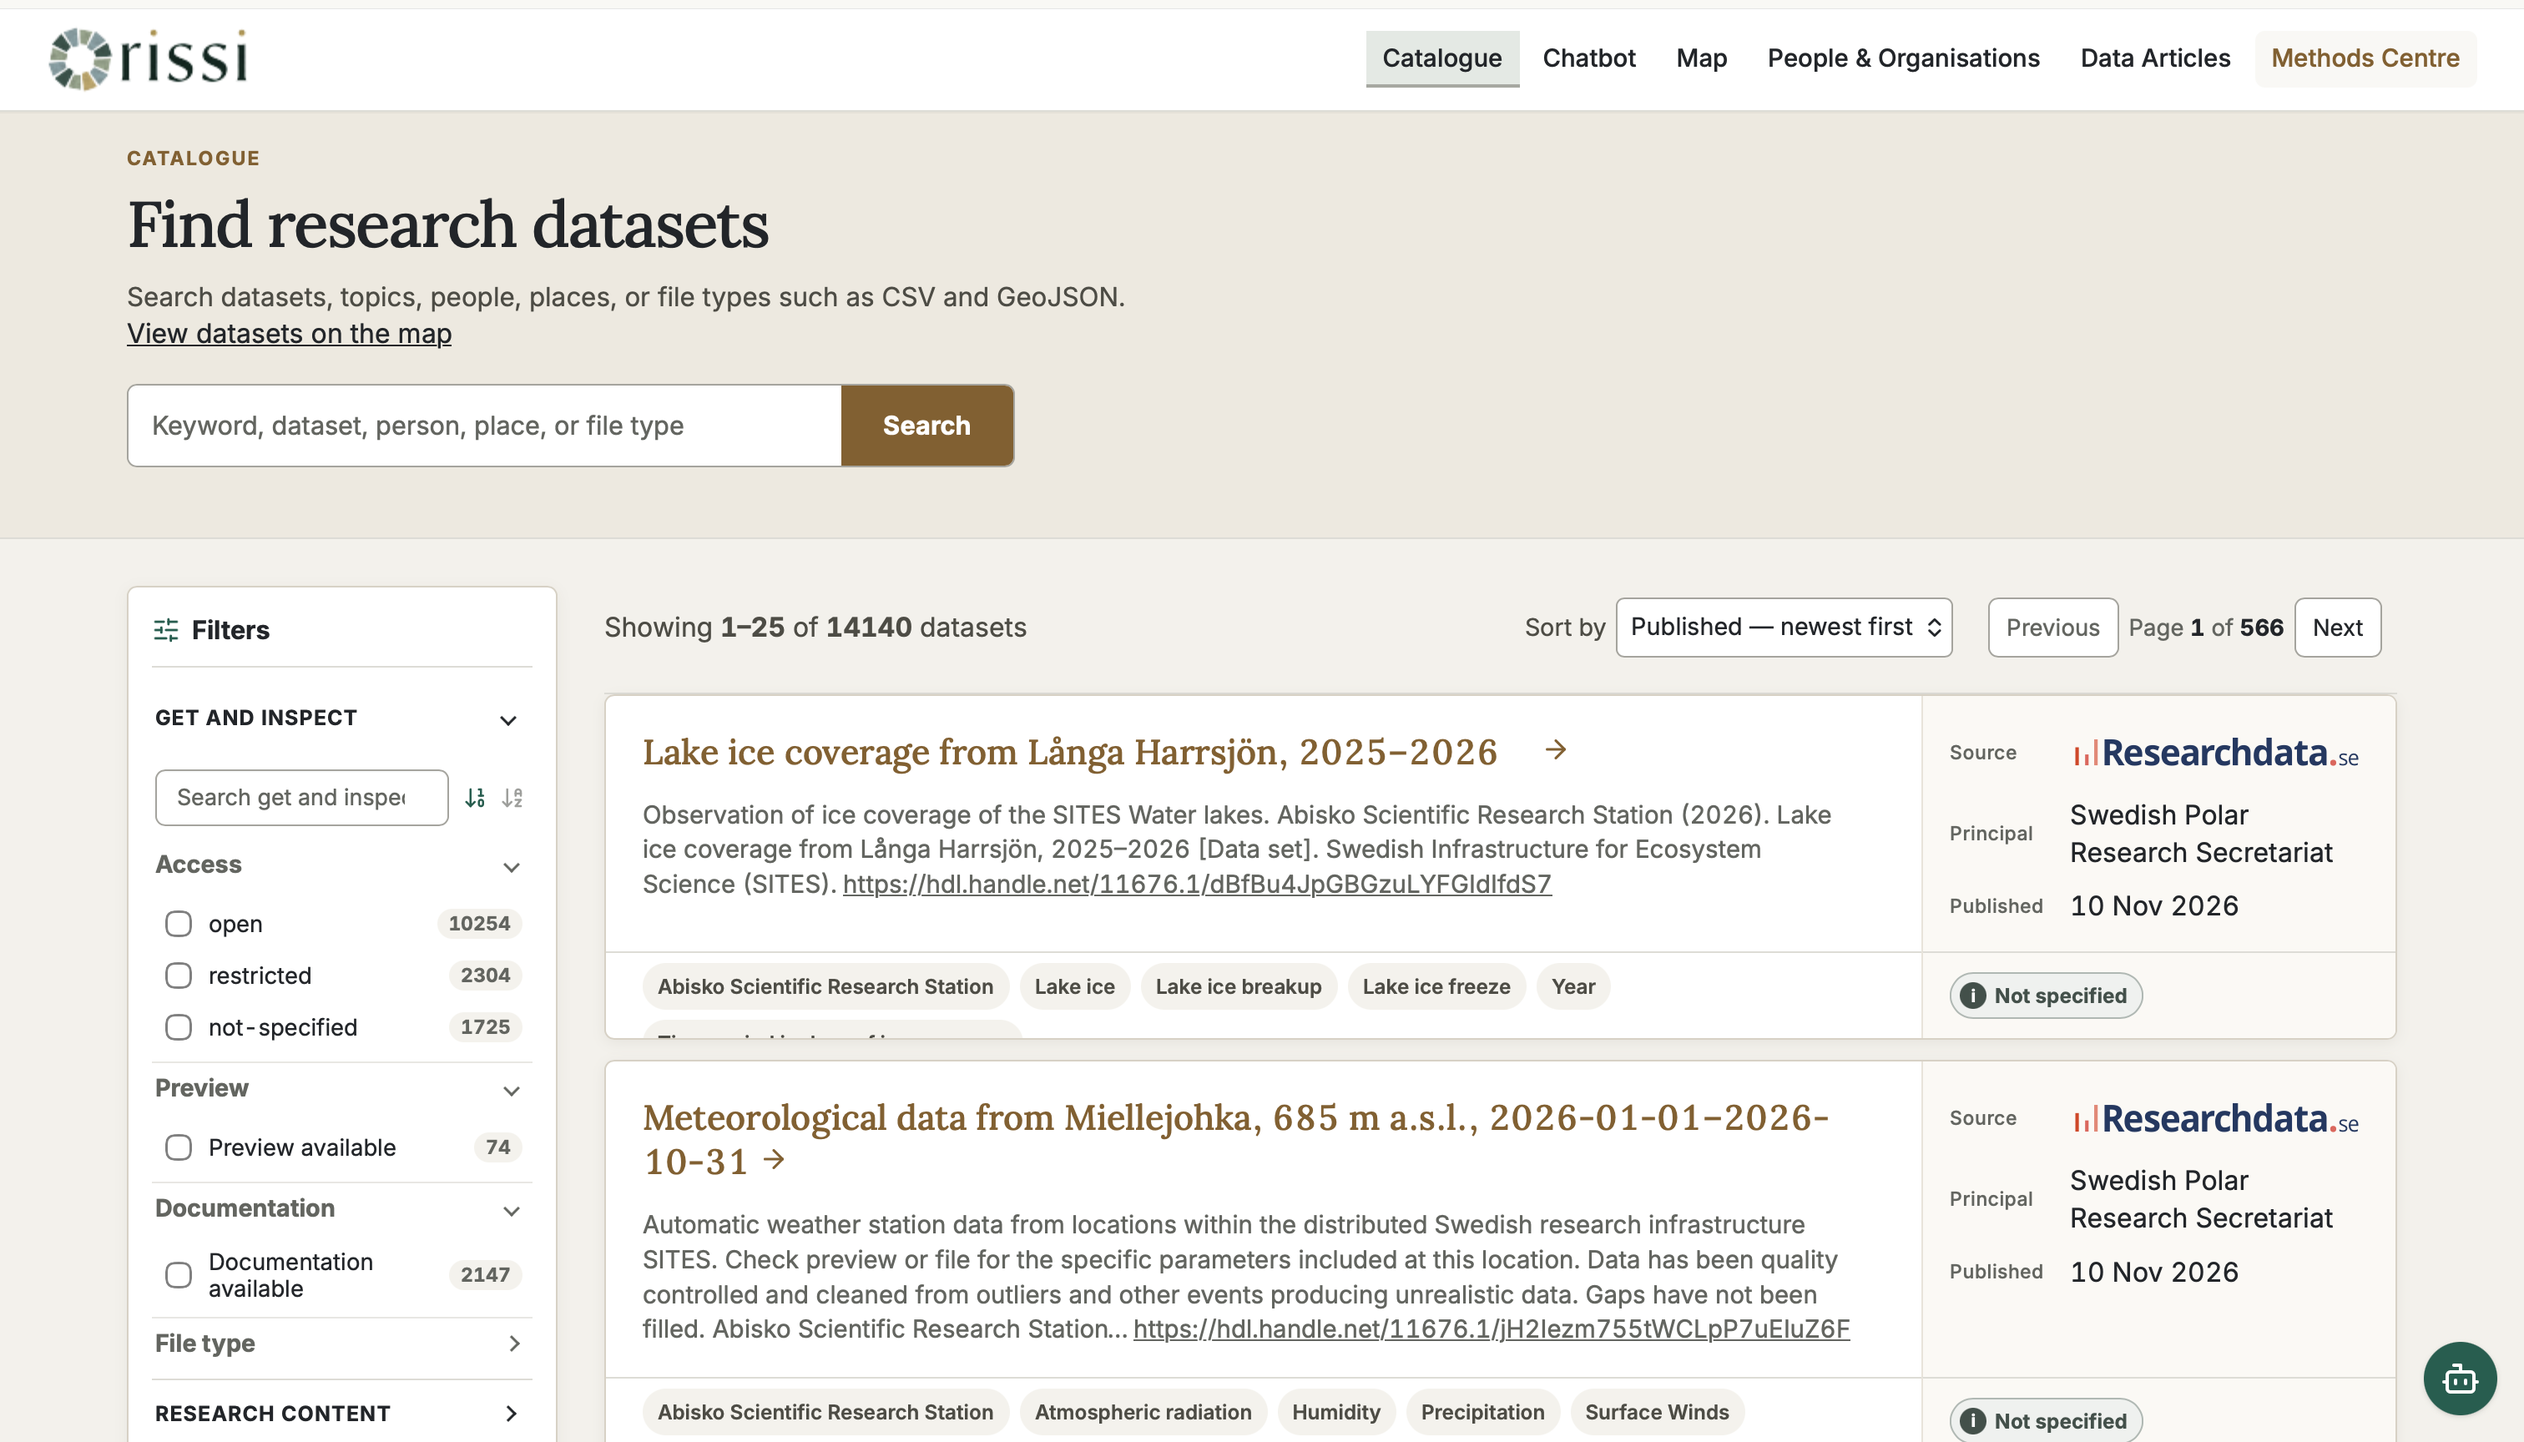
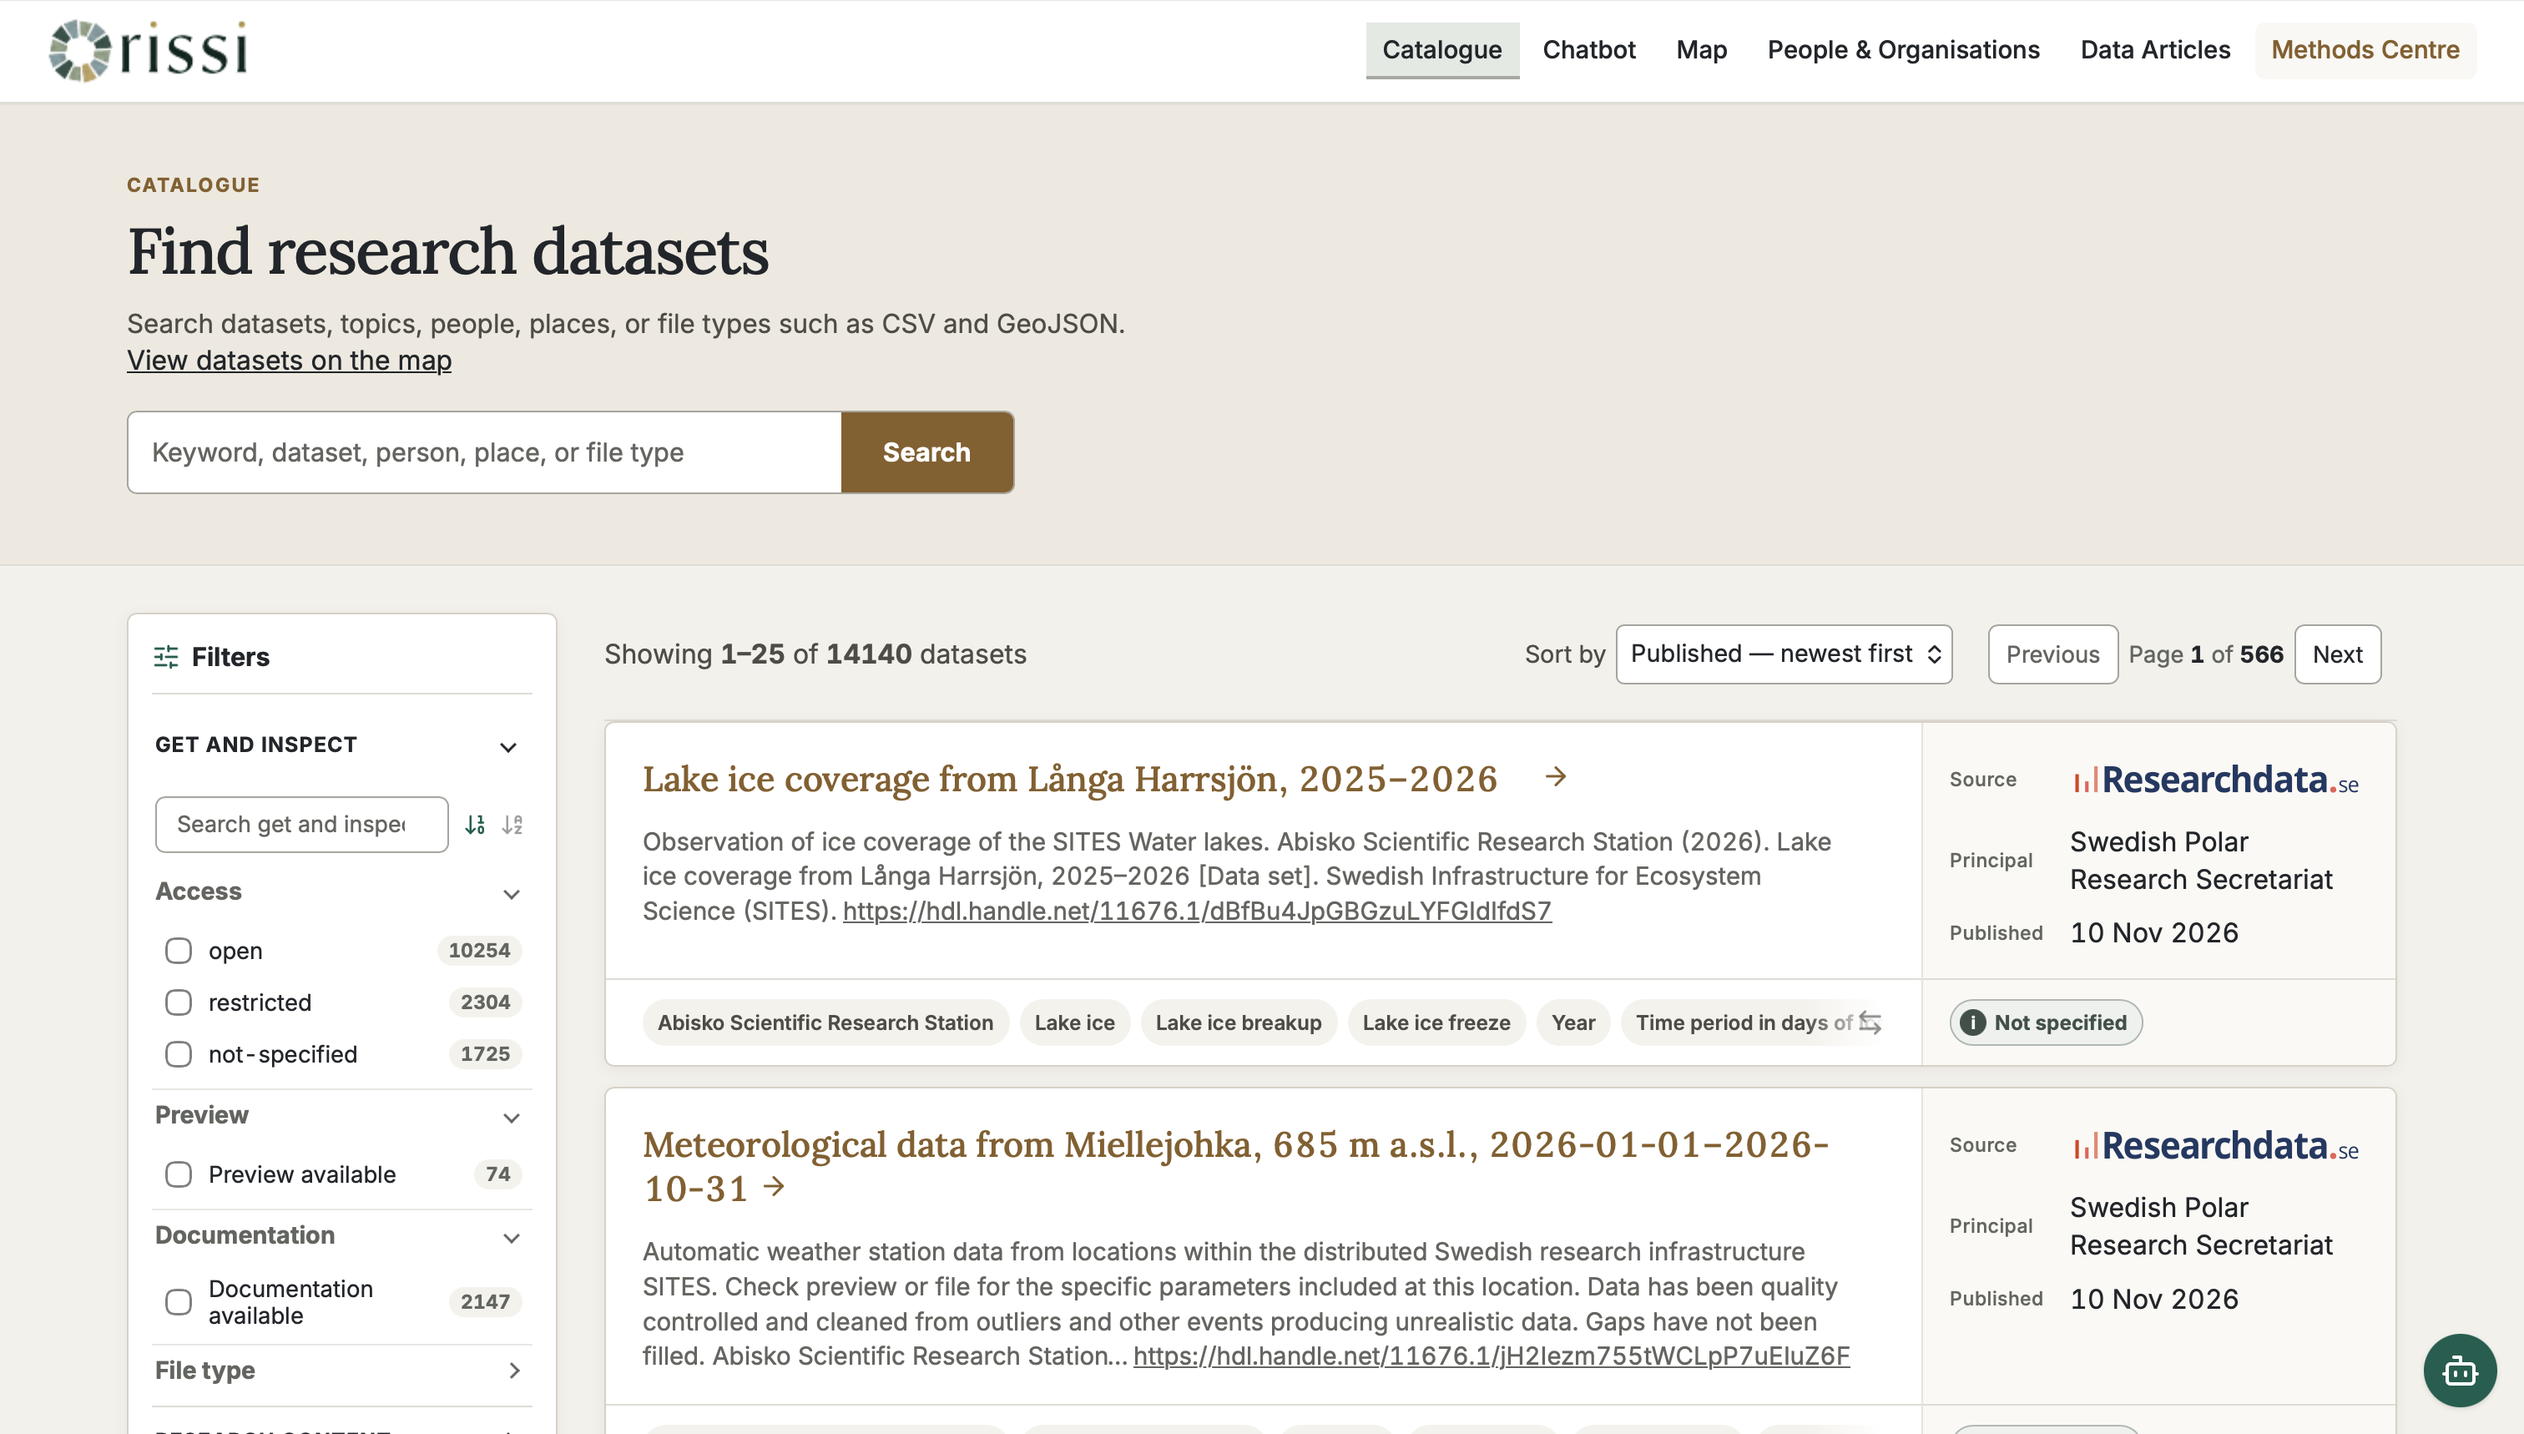
Replace the RISSI catalogue screenshot

diff --git a/_portfolio/research-data-platform.md b/_portfolio/research-data-platform.md
@@ -23,7 +23,7 @@ The platform brings together metadata and prepared previews from third-party ope
 
 <figure class="paper-figure">
   <a href="{{ '/images/rissi-catalogue.png' | relative_url }}">
-    <img src="{{ '/images/rissi-catalogue.png' | relative_url }}" alt="Dataset search results alongside filters for access, previews, documentation, and file type" width="3024" height="1728" loading="lazy">
+    <img src="{{ '/images/rissi-catalogue.png' | relative_url }}" alt="Dataset search results alongside filters for access, previews, documentation, and file type" width="3024" height="1718" loading="lazy">
     <span>View full-size screenshot</span>
   </a>
   <figcaption><span class="paper-figure__label">Figure 1.</span> The RISSI catalogue showing dataset records from Researchdata.se.</figcaption>
